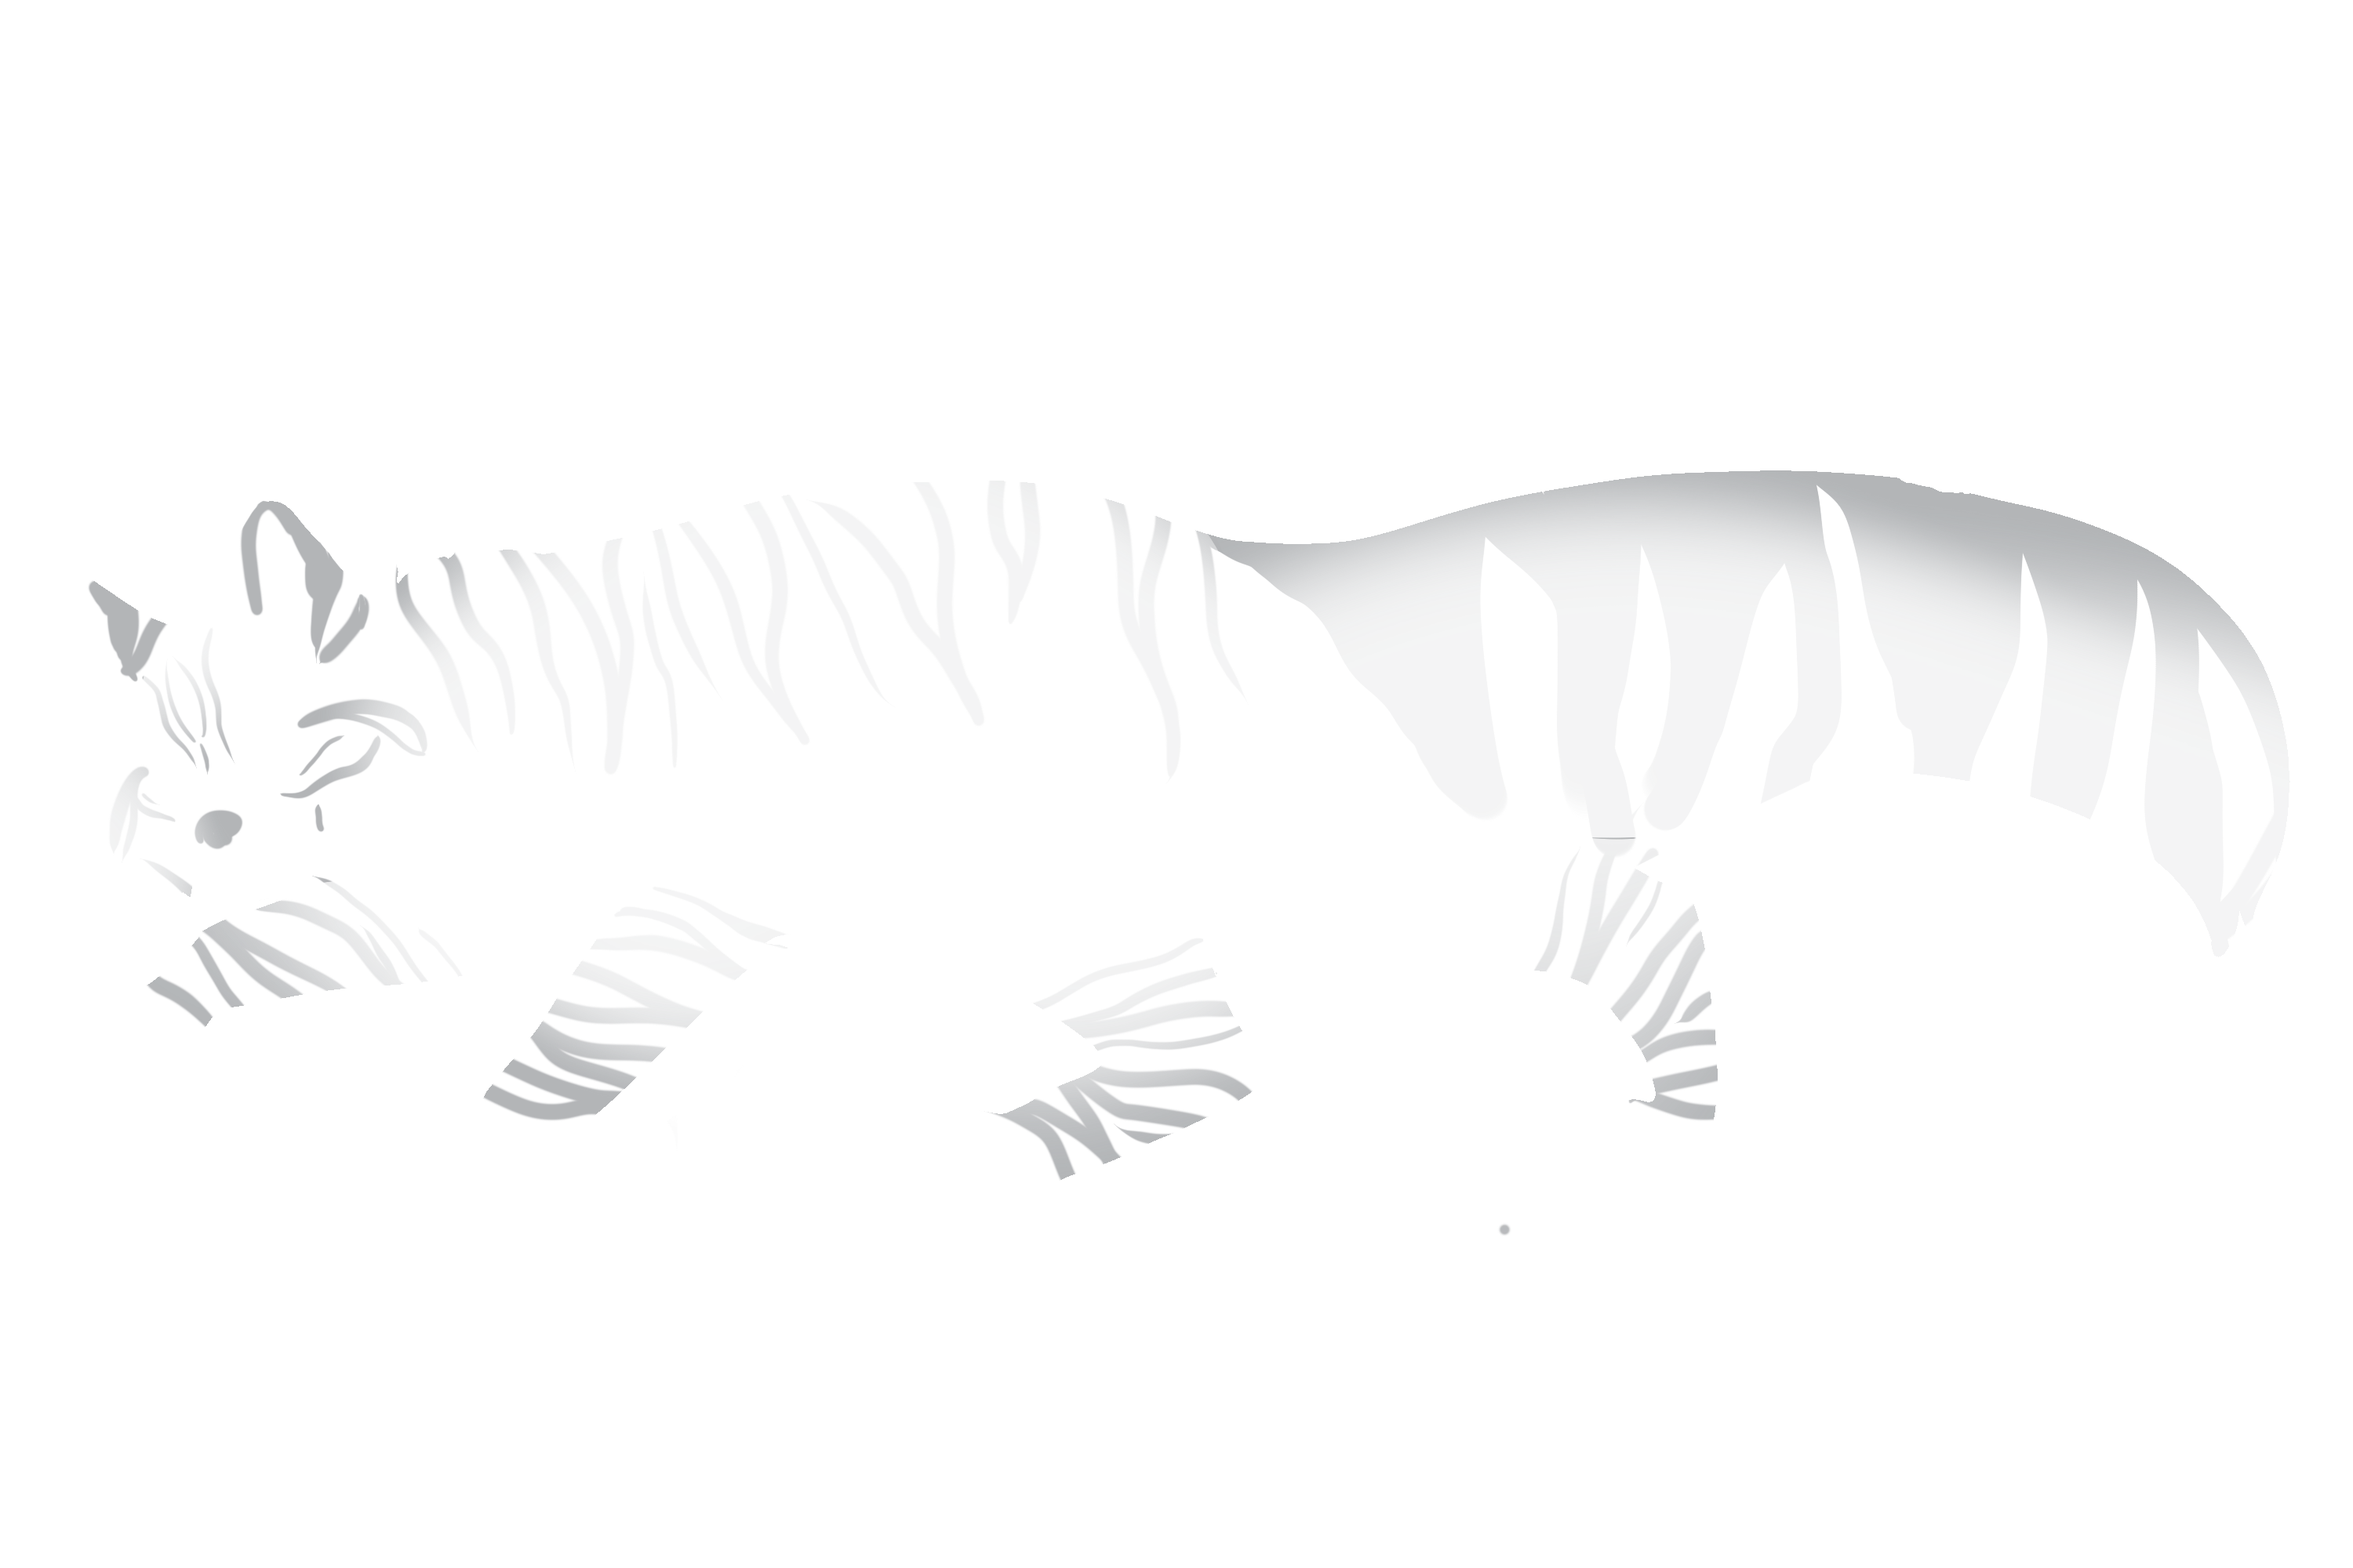
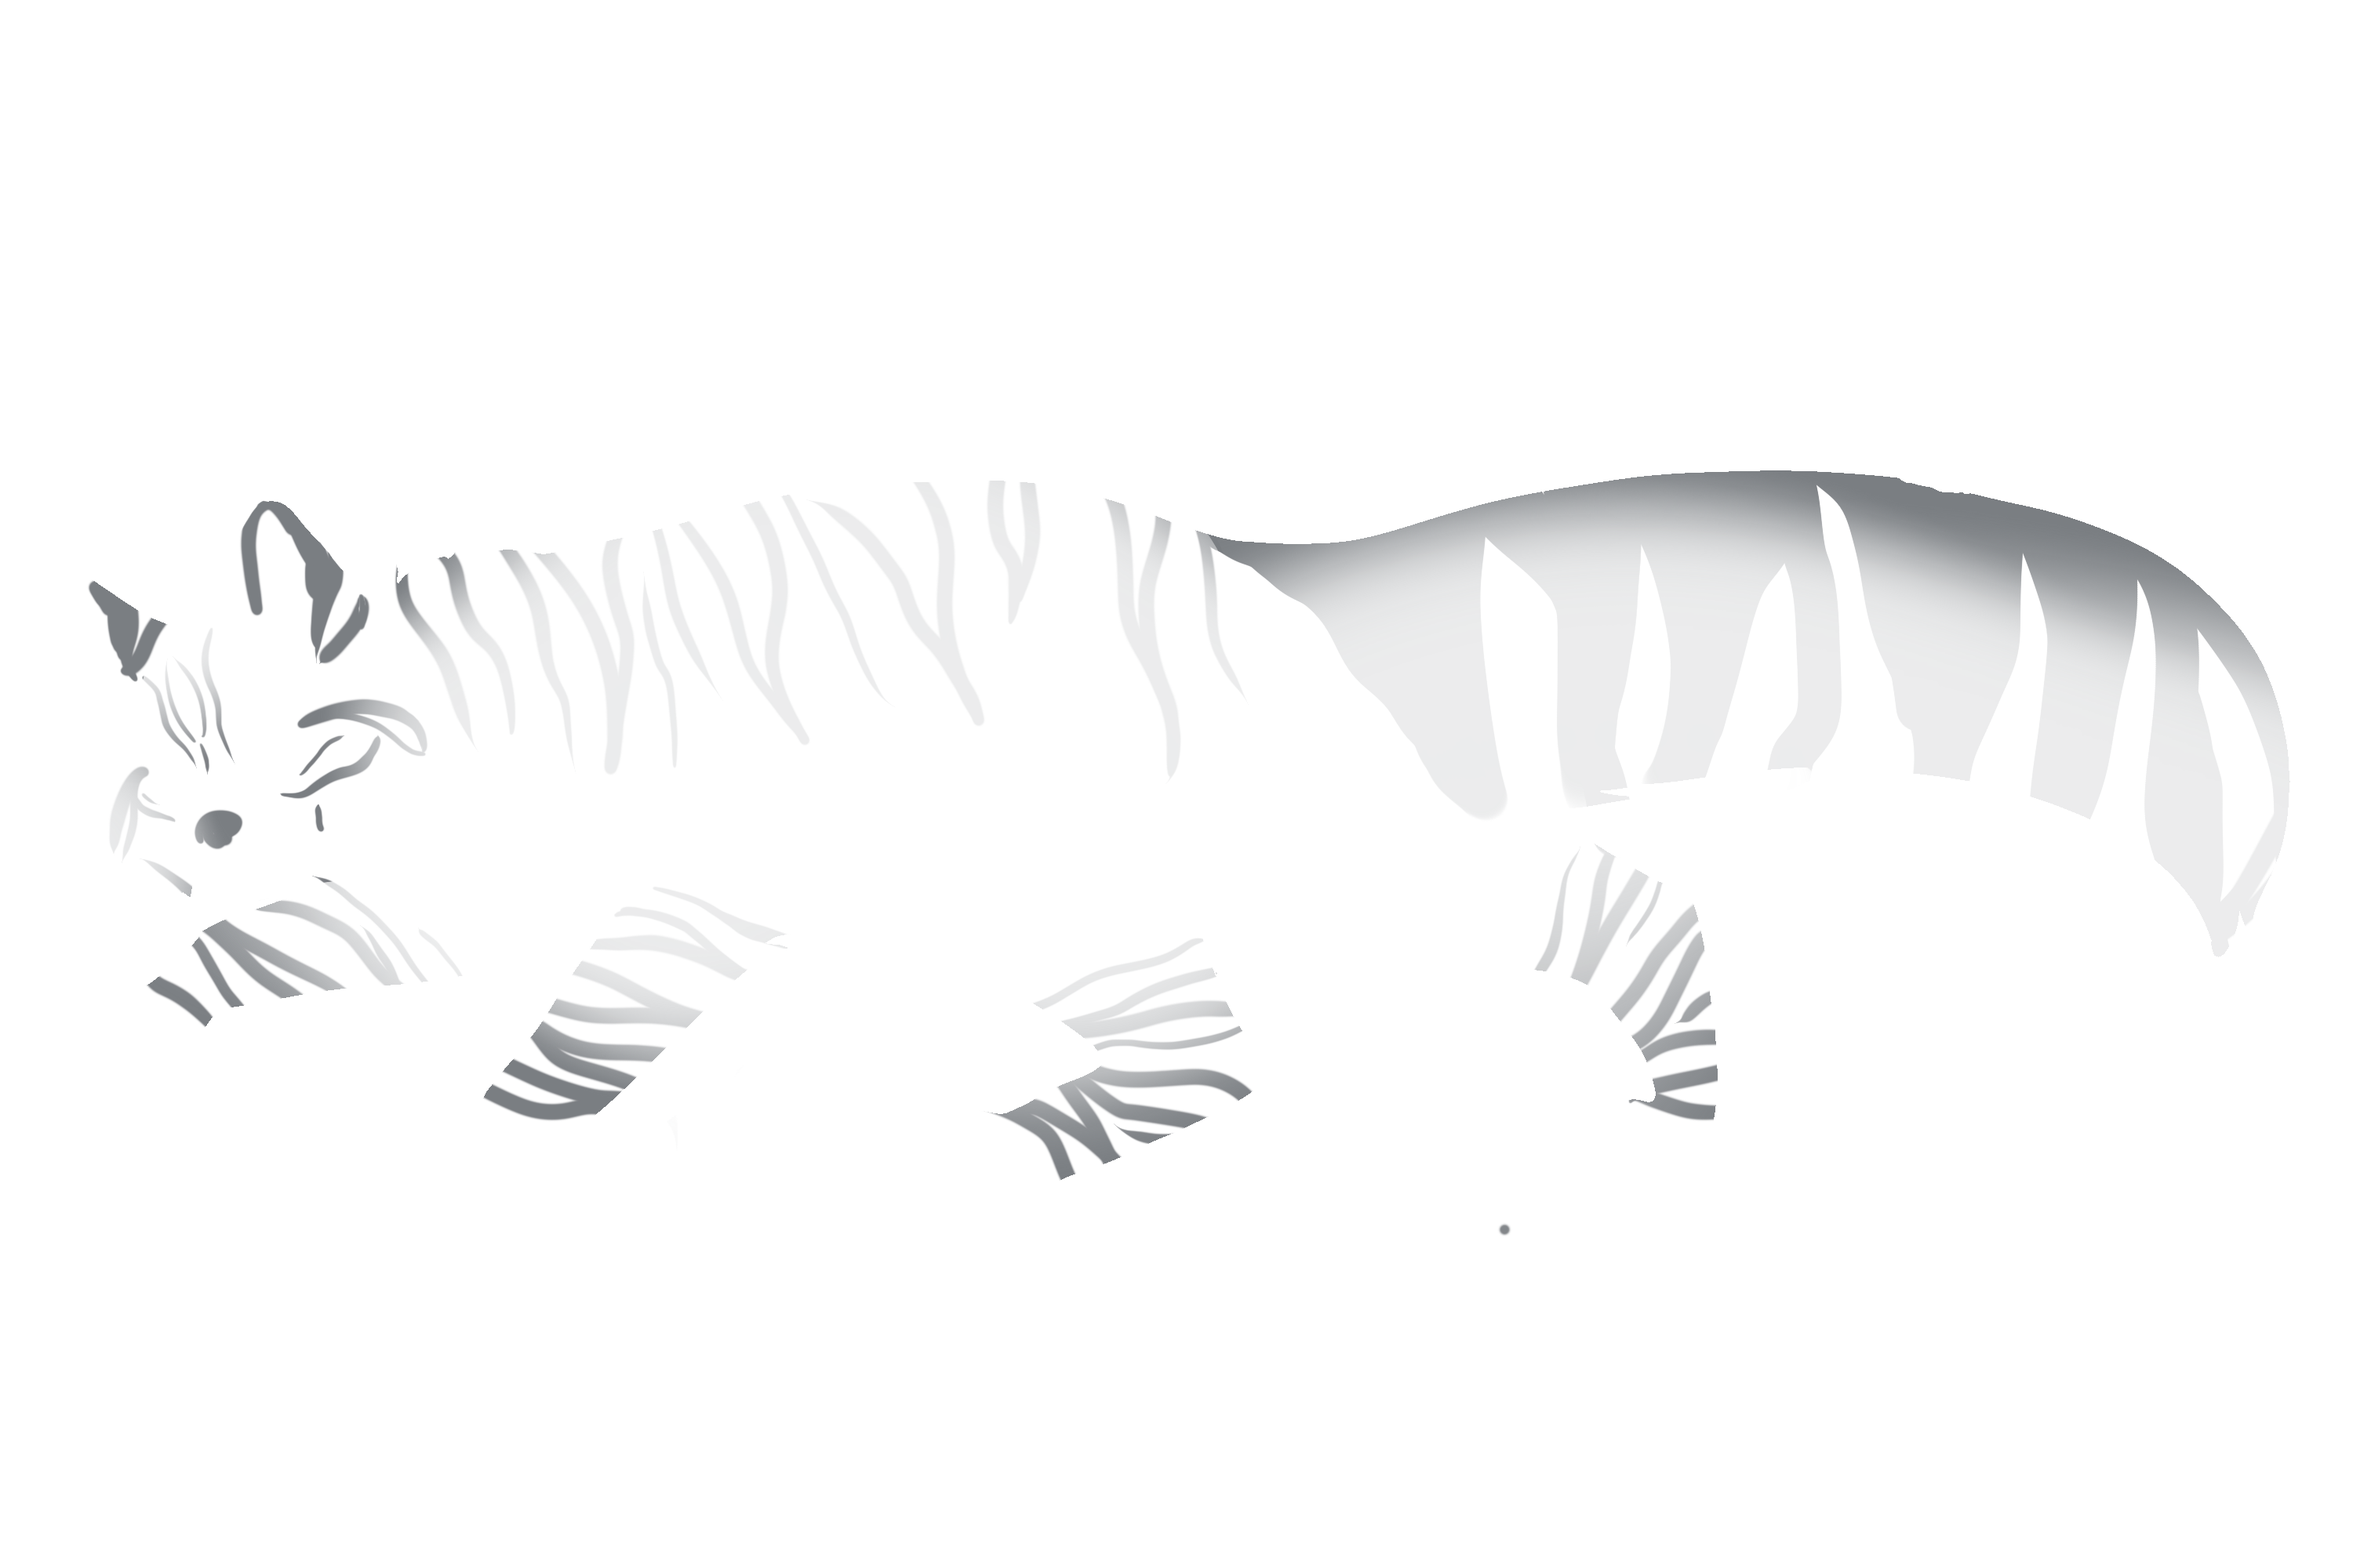
more marks + marieke base

diff --git a/public/main.css b/public/main.css
@@ -3,7 +3,8 @@
 }
 
 #cat img {
-    width: 700px;
+    max-width: 700px;
+    max-height: 500px;
     position: absolute;
 }
 
@@ -26,6 +27,6 @@
 
 #name {
     position: absolute;
-    margin-left: 320px;
+    margin-left: 700px;
     margin-top: 70px;
 }
